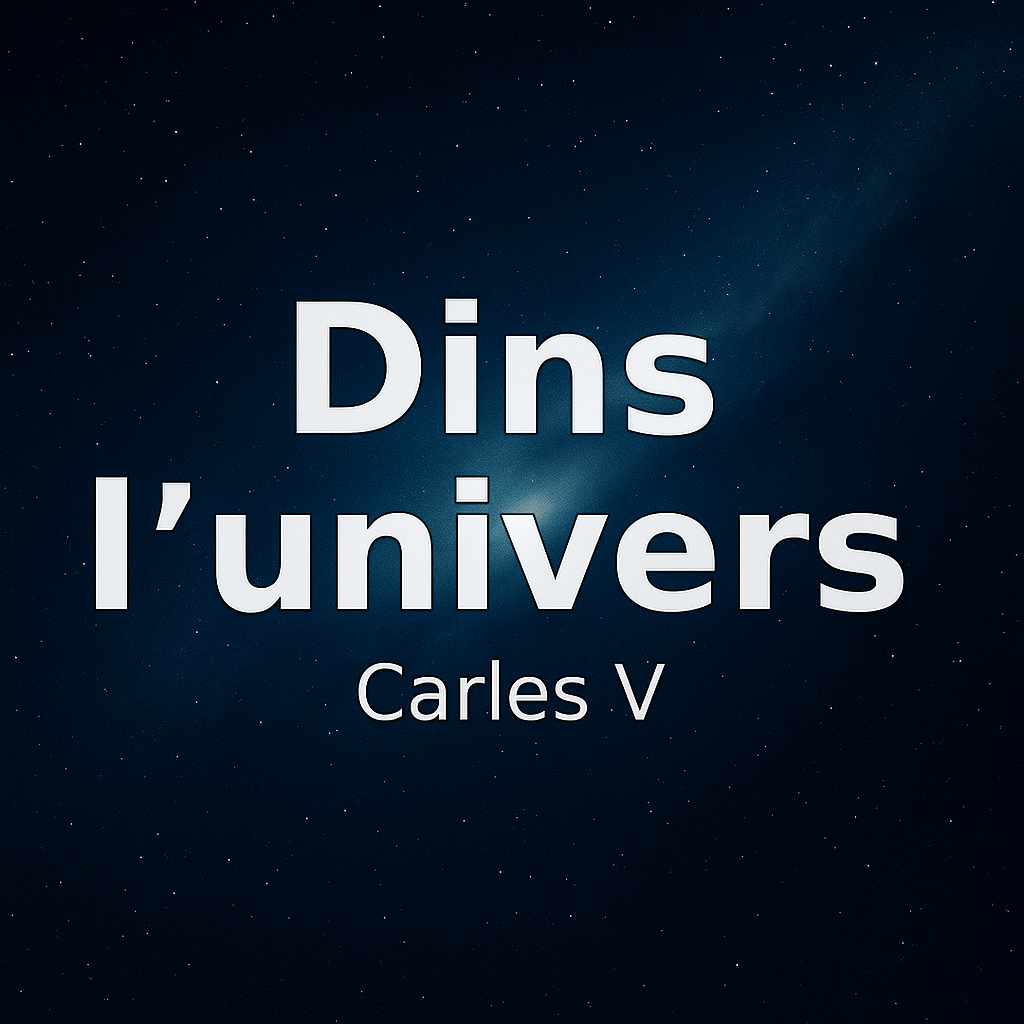
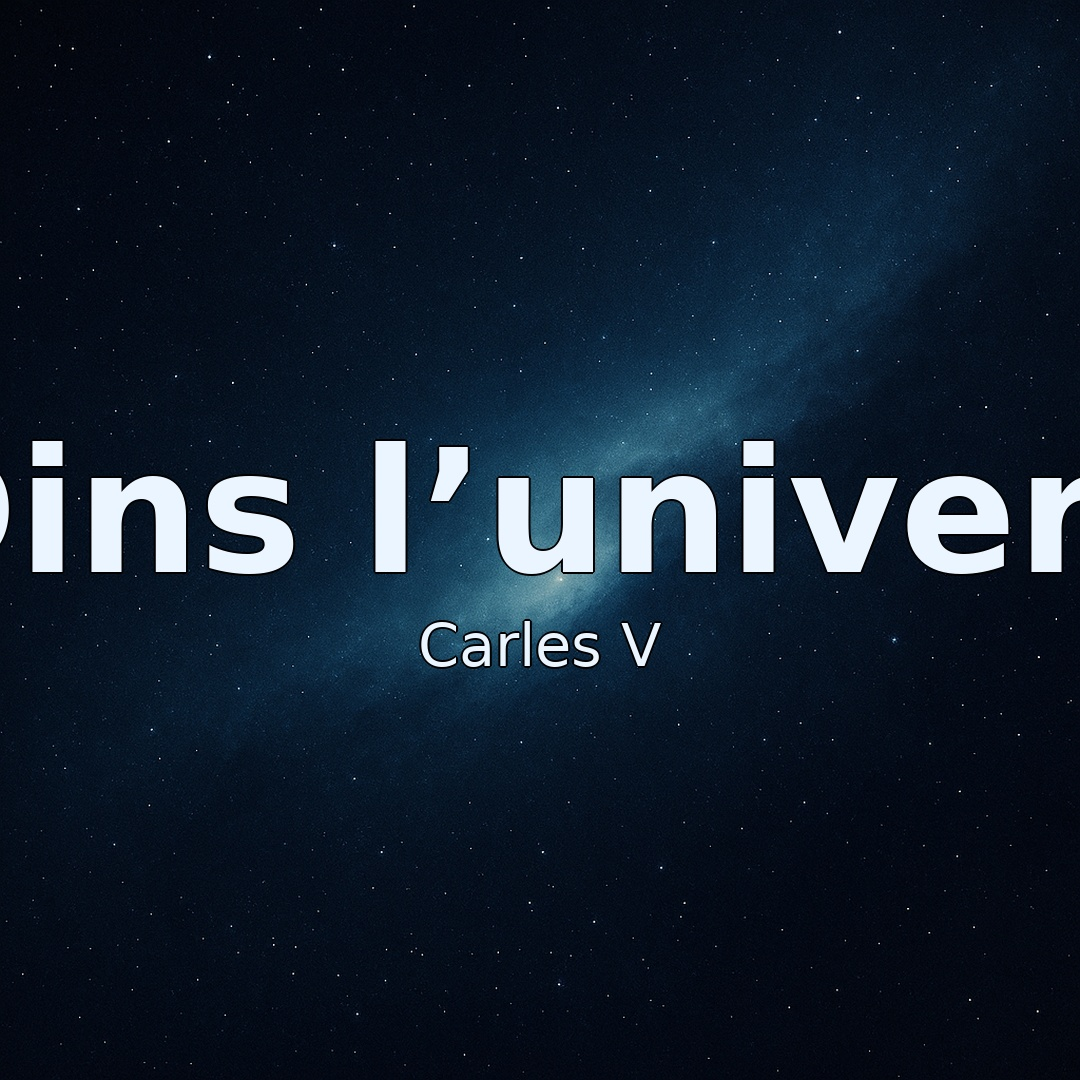
Add files via upload

Changed region(s): [[0.0, 0.2812, 1.0, 0.7188]]

diff --git a/index.html b/index.html
@@ -19,7 +19,7 @@
 <meta property="og:site_name" content="Carles V — Dins l’univers">
 <meta property="og:title" content="Carles V — Dins l’univers">
 <meta property="og:description" content="Àlbum oficial de Carles V: Dins l’univers.">
-<meta property="og:image" content="assets/img/assets/img/og-image.jpg">
+<meta property="og:image" content="https://carlesvmusic.github.io/assets/img/og-image.jpg?v=2">
 <meta property="og:image:width" content="1200">
 <meta property="og:image:height" content="630">
 <meta property="og:locale" content="ca_ES">
@@ -28,7 +28,7 @@
 <meta name="twitter:card" content="summary_large_image">
 <meta name="twitter:title" content="Carles V — Dins l’univers">
 <meta name="twitter:description" content="Àlbum oficial de Carles V: Dins l’univers.">
-<meta name="twitter:image" content="assets/img/assets/img/og-image.jpg">
+<meta name="twitter:image" content="https://carlesvmusic.github.io/assets/img/og-image-square.jpg?v=2">
 
 
 <meta charset="utf-8">
